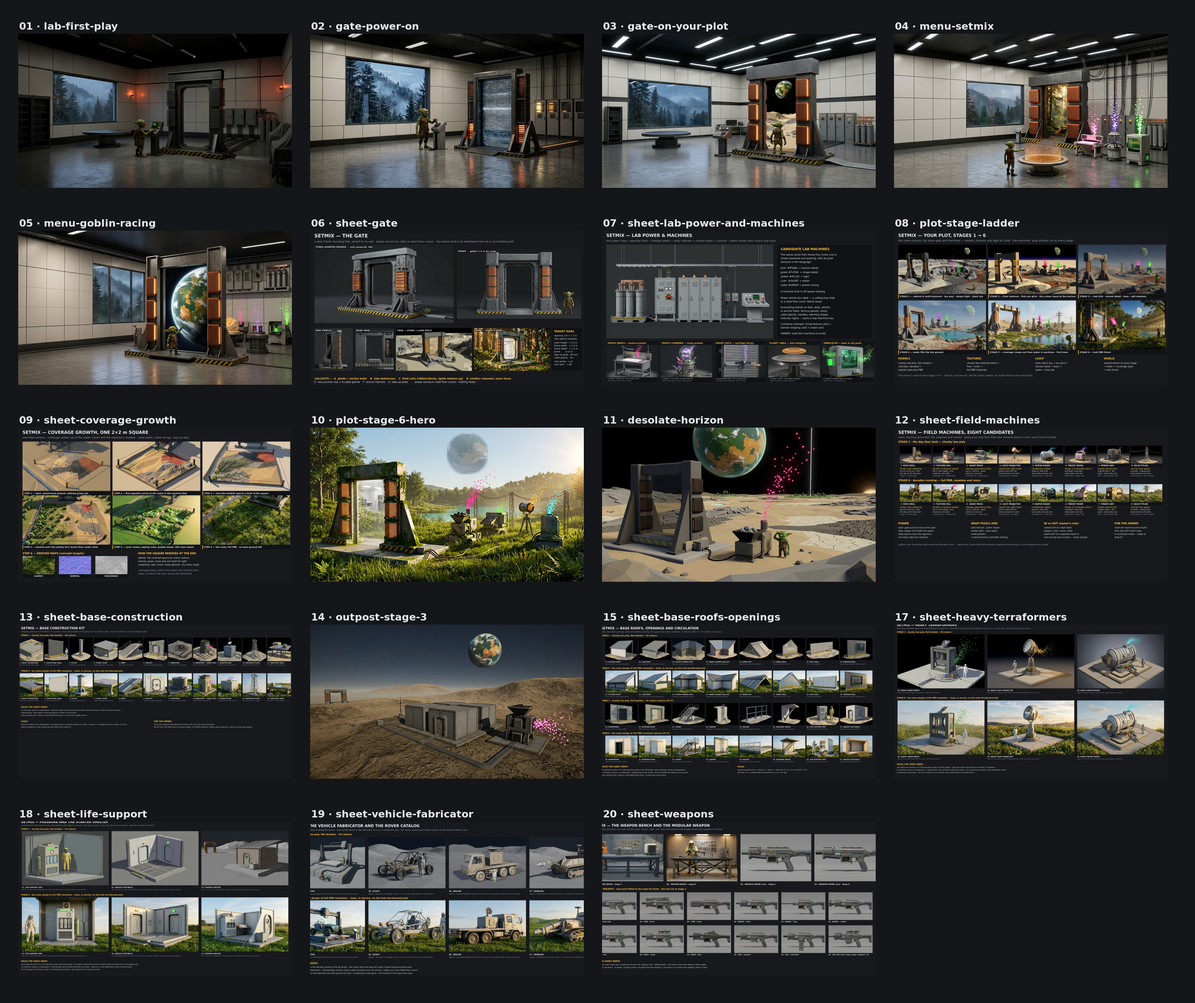
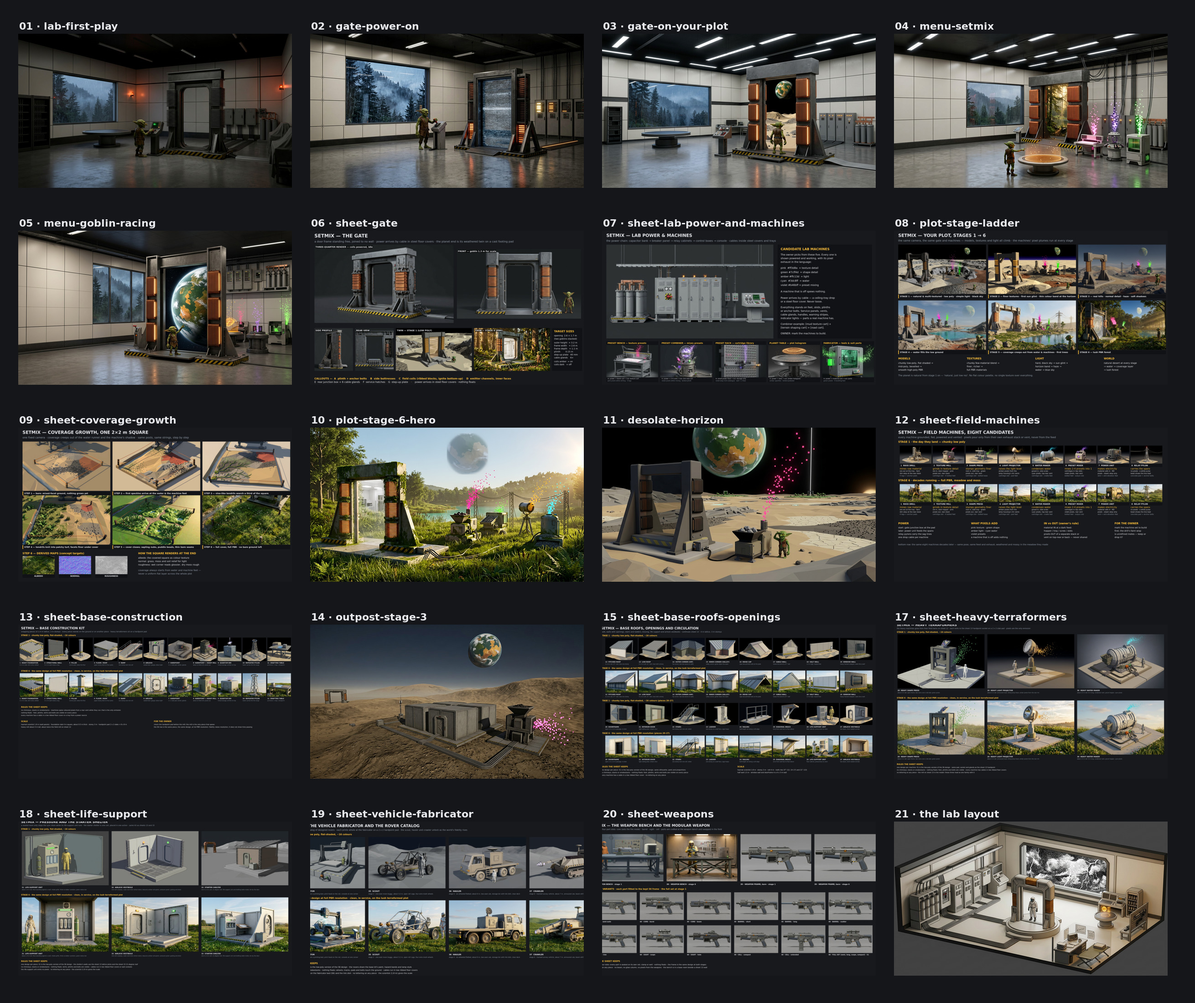
concept(setmix): sheet 21, the lab redesign (art agent 4c8c49c5, after two reviews): layout, Act I dark, storm-as-progress over Earth, power wall, studio corner, armory and her corner

Changed region(s): [[0.742, 0.8036, 0.9893, 0.9891]]

diff --git a/docs/concept/setmix/README.md b/docs/concept/setmix/README.md
@@ -933,3 +933,19 @@ in 04/05).
 **Sheet 20 status (complete):** `20-sheet-weapons.png` (3840x1960) shows the weapon bench (38) and the bare frame (39) at S1 and S6, then the part variants (40): three cores (semi-auto, burst, beam), three barrels (short, long, scatter), three sights (iron, scope, holo), two cells (compact, extended), each fitted to the kept S6 frame, and the S1 full set (semi-auto, long barrel, scope, compact cell). Rejected renders are in `panels/20/rejected/` (`20-core-semi-s6-rev1`, `20-core-beam-s6-rev1`, `20-barrel-scatter-s6-rev1`, `20-full-s1-rev1`, `20-frame-s6-rev1` to `-rev3`). Composed by `tools/compose20.sh`. Note: the S1 full set's compact cell sits slightly below the underside, where the S6 cell is flush.
 
 **Accepted (lead engineer, 2026-10-10):** sheet 20. Notes for the mesh brief: the burst core's top housing and the beam core's front shroud must read as receivers (seated in the core well), not as a rail accessory or a barrel shroud. The "S1 full set" panel renders closer to S6 than to chunky low poly; take the S1 look from 20-frame-s1.
+
+---
+
+## 21 · the lab — the new layout (panels 41 to 46)
+
+**For:** the owner-approved redesign of the shielded white-room lab (feat docs/LAB_LAYOUT_RESEARCH.md, proposals L1 to L6). One room, about 16 by 12 m, 5 m ceiling, north wall the observation window onto the void storm. The gate is the landmark on a raised round plinth in the south half, facing the window. The power wall is west (capacitors, breaker panel, relay cabinets, control boxes, the console with its lever, one cable tray to the gate). The studio corner is east (preset bench, combiner, cartridge rack, the planet table with its hologram). The armory nook is south-east (armory rack, weapon bench). Her corner is south-west (desk, cot, readings, radio grille). Every panel is drawn once at full PBR quality, as a set piece, not as an S1/S6 pair.
+
+**Panels:** `panels/21/41-layout.png`, `44-power-wall.png`, `45-studio-corner.png`, `46-armory-her-corner.png` (composed from `46a-armory-nook.png` and `46b-her-corner.png`) are kept. Pending: `42-act1-dark.png` (redraw) and `43-storm-progress.png` (three frames, storm full, thinning, breaking; not yet drawn). Composed by `tools/compose21.sh`. The rejected renders are in `panels/21/rejected/`.
+
+**Review notes:** the walls and interior are warm white and light grey, with dark grey trim and amber lamps; no chimneys, stacks, lettering or readable screen text; nothing floats; cables run in trays or floor covers.
+
+**Sheet 21 status (lead review fixes applied):** the power cables now run in floor covers, the preset combiner is the sheet 07 round machine with a dome, and the wall decals are removed from 45 and 46. Panels 41, 42, 43 (composed `43-storm-progress.png`, three frames: full, thinning, breaking), 44, 45 and 46 (composed `46-armory-her-corner.png`) are complete. The contact tile is `21-sheet-the-lab.png`, a copy of the layout panel. Rejected renders are in `panels/21/rejected/`.
+
+**Sheet 21, panel 43 (storm progress), final:** three frames in one image, `43-storm-progress.png`, from `43a-storm-full.png`, `43b-storm-thinning.png` and `43c-storm-breaking.png`. All three are in the same white lab room as panels 41 and 44 to 46. The window looks out over Earth: the storm, then grey ground and hills with a distant ruined skyline, then blue sky over restored green land. The only gate is the one inside the room. Superseded frames are in `panels/21/rejected/` (rev2 and rev3).
+
+**Accepted (lead engineer, 2026-10-11):** sheet 21 after reviews 1 and 2 (docs/prompts/art/lab-sheet21-review1.md, -review2.md). The storm strip (43) is the white room looking over Earth: storm, thinning to grey ground and a ruined skyline, then blue sky and green land. Known gap: in 43a the gate's cables lie on the floor; in the game they run in floor covers, as in 41.
